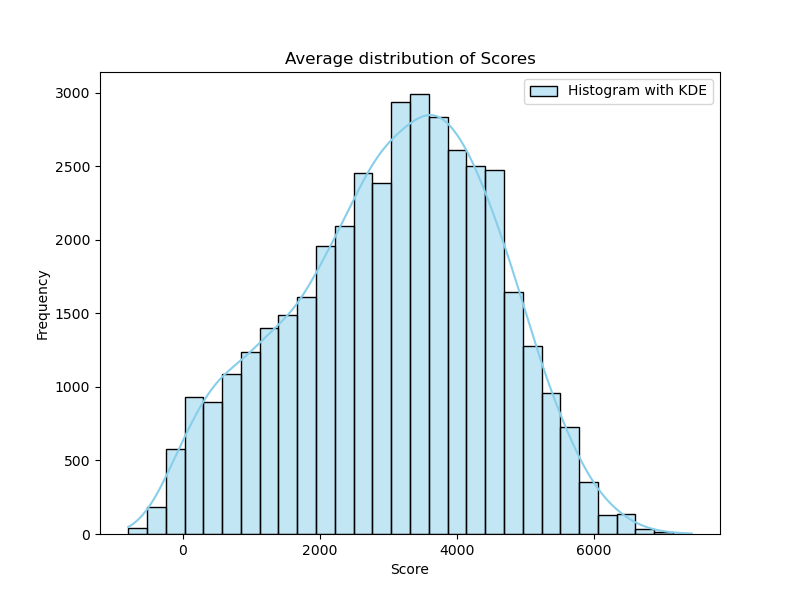
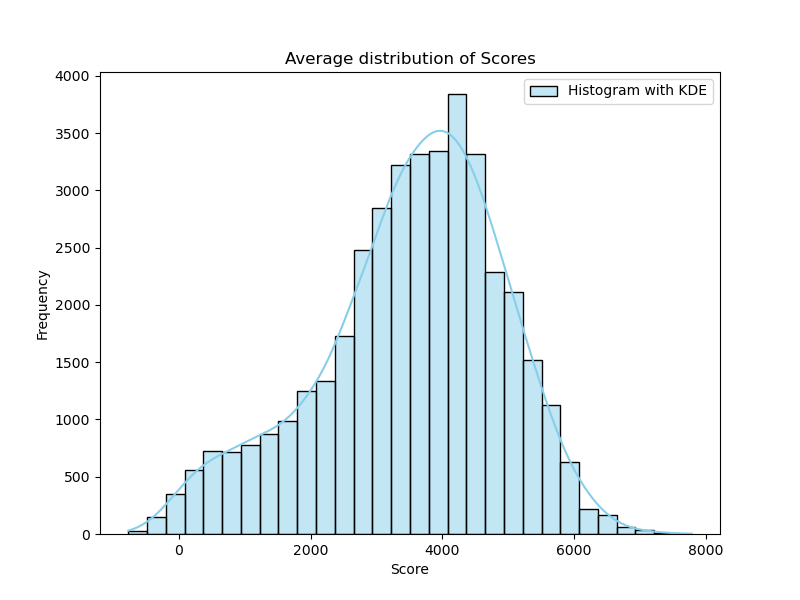
repairing the bugs
14 is now 24, tried to bugfix time going over 120

diff --git a/main.py b/main.py
@@ -52,37 +52,37 @@ if __name__ == "__main__":
                 total_connections += 1
                 connections_list.append(dataframe2)
 
-            dataframe2.to_csv("output.csv", index=False)    
+            dataframe2.to_csv("output.csv", index=False)
 
         print(f' total = {total_connections} with {i} amount of trajectories')
         print(connections_list)
 
+    print(dataframe2)
 
+    # find average values from the baseline algorithms
+    total_score, total_connections, baseline_dataframe = prepare_data_baseline(10000,
+        full_connection_dict, original_connection_dict, possible_directions,
+        choose_random_connections)
 
-    # # find average values from the baseline algorithms
-    # total_score, total_connections, baseline_dataframe = prepare_data_baseline(10000,
-    #     full_connection_dict, original_connection_dict, possible_directions,
-    #     choose_random_connections)
-    #
-    # score_7_trajectories, connections_7_trajectories, dataframe_7_trajectories = prepare_data_baseline(
-    #     10000, full_connection_dict, original_connection_dict, possible_directions,
-    #     choose_random_connections, False)
-    #
-    # # set correct amount of bins
-    # bin_edges = np.linspace(0, 28, 29)
-    #
-    # # plot the values
-    # plot_distribution(total_score, 30, "Average distribution of Scores" , "Score",
-    #     "code/visualisation/total_score_distribution")
-    # plot_distribution(total_connections, bin_edges, "Average distribution of Connections",
-    #     "Connections", "code/visualisation/total_connections_distribution")
-    # plot_distribution(score_7_trajectories, 30, "Average distribution of Scores with 7 Trajectories" ,
-    #     "Score", "code/visualisation/7_trajectories_score_distribution")
-    # plot_distribution(connections_7_trajectories, bin_edges,
-    #     "Average distribution of unique connections with 7 Trajectories" , "Connections",
-    #     "code/visualisation/7_trajectories_connections_distribution")
-    #
-    # # display the dataframe
-    # baseline_dataframe.to_csv('code/visualisation/trajectories_statistics.csv', index=False)
-    #
-    # # create_map(dataframe2, "data/Noord_Holland/StationsHolland.csv")
+    score_7_trajectories, connections_7_trajectories, dataframe_7_trajectories = prepare_data_baseline(
+        10000, full_connection_dict, original_connection_dict, possible_directions,
+        choose_random_connections, False)
+
+    # set correct amount of bins
+    bin_edges = np.linspace(0, 28, 29)
+
+    # plot the values
+    plot_distribution(total_score, 30, "Average distribution of Scores" , "Score",
+        "code/visualisation/total_score_distribution")
+    plot_distribution(total_connections, bin_edges, "Average distribution of Connections",
+        "Connections", "code/visualisation/total_connections_distribution")
+    plot_distribution(score_7_trajectories, 30, "Average distribution of Scores with 7 Trajectories" ,
+        "Score", "code/visualisation/7_trajectories_score_distribution")
+    plot_distribution(connections_7_trajectories, bin_edges,
+        "Average distribution of unique connections with 7 Trajectories" , "Connections",
+        "code/visualisation/7_trajectories_connections_distribution")
+
+    # display the dataframe
+    baseline_dataframe.to_csv('code/visualisation/trajectories_statistics.csv', index=False)
+
+    # create_map(dataframe2, "data/Noord_Holland/StationsHolland.csv")

diff --git a/code/algorithms/random_start_random_choice.py b/code/algorithms/random_start_random_choice.py
@@ -44,13 +44,13 @@ def generate_trajectory(connection_object_dict, possible_connections_dict, neede
     duration = 0
     new_needed_connections_dict = copy.deepcopy(needed_connections_dict)
 
-    # make random amount of connections between 1 and 14
-    if len(needed_connections_dict) > 0:
-        for i in range(random.randint(1, 14)):
+    # make random amount of connections between 1 and 24
+    if len(new_needed_connections_dict) > 0:
+        for i in range(random.randint(1, 24)):
             # if there is no objects yet, we need a random starting point
-            if len(objects) == 0:
+            if len(objects) <= 0:
                 # Start with a random needed connection and append to list
-                connection_object = random.choice(list(needed_connections_dict.values()))
+                connection_object = random.choice(list(new_needed_connections_dict.values()))
                 start_station = connection_object.start_station
                 objects.append(connection_object)
                 duration += connection_object.duration
@@ -64,17 +64,16 @@ def generate_trajectory(connection_object_dict, possible_connections_dict, neede
                 possible_stations = possible_connections_dict[departure_station]
                 for station in possible_stations:
                     if departure_station + '-' + station in new_needed_connections_dict:
+                        connection_object = connection_object_dict[departure_station + "-" + station]
+                        #TODO: make sure to try other stations instead of returning
                         # if duration time goes over 120: don't add connection and return list
                         if duration + connection_object.duration > 120:
                             return objects, new_needed_connections_dict
 
+                        # add object, count duration and remove connection from needed connections
                         objects.append(needed_connections_dict[departure_station + '-' + station])
-
-                        # remove connection from needed connections
-                        new_needed_connections_dict.pop(departure_station + '-' + station)
-
-                        # count duration and remove connection from needed connections
                         duration += connection_object.duration
+                        new_needed_connections_dict.pop(departure_station + '-' + station)
                         break
 
                 # store length after and check if previous loop has added any connections

diff --git a/code/visualisation/plot_distribution.py b/code/visualisation/plot_distribution.py
@@ -36,7 +36,7 @@ def prepare_data_baseline(iterations, full_connection_dict, original_connection_
             current_df, connection_number = create_trajectories(
                 i, choose_random_connections, full_connection_dict,
                 original_connection_dict, full_connection_dict, possible_directions,
-                random.randint(1,14))
+                random.randint(1, 24))
 
 
             score.append(current_df['stations'].iloc[-1])
